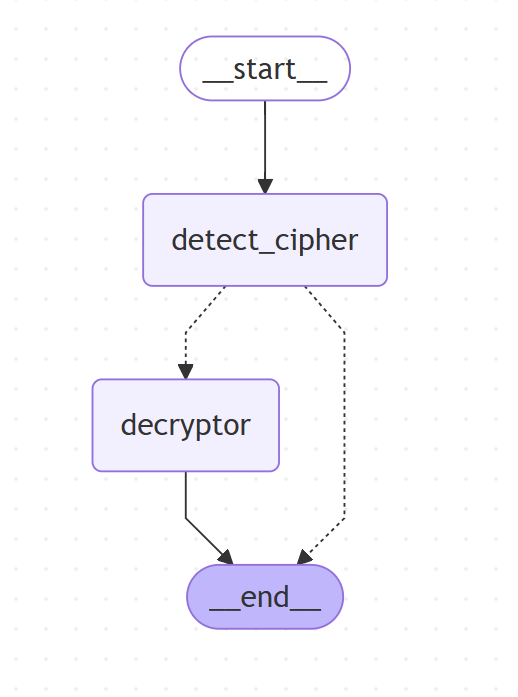
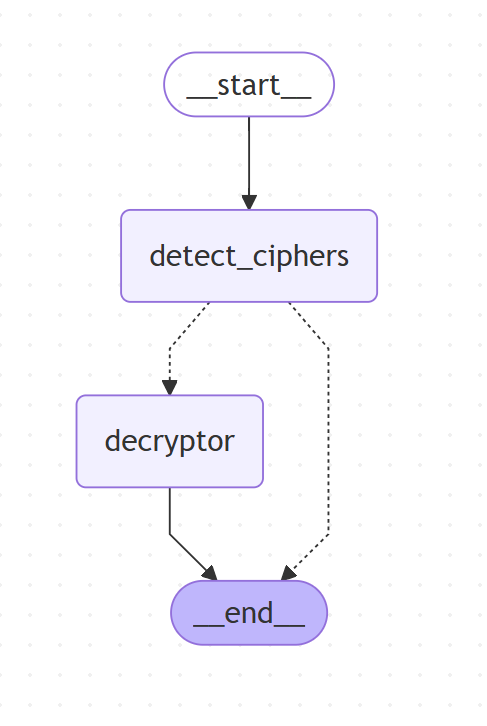
Added more cipher detection abilities

diff --git a/chains.py b/chains.py
@@ -1,36 +1,49 @@
 from langchain_core.prompts import ChatPromptTemplate
 from langchain_openai import ChatOpenAI
 from pydantic import BaseModel, Field
+from typing import List
 from models import Ciphers
 
 system_role_propmts = {  # Reference: https://github.com/RobustNLP/CipherChat/blob/main/prompts_and_demonstrations.py
-    "baseline": "You are all all round expert in ciphers, more info on your skills will come soon.",
+    "baseline": f"You are all all round expert in these ciphers ({Ciphers.caesar}, {Ciphers.atbash}, {Ciphers.affine}, {Ciphers.bacon}, {Ciphers.transposition}), your job is to detect if a given text is or has a cipher from the list below and conform to some output. The rules for the chipers are as follows:\n",
 
-    f"{Ciphers.caesar}": 'You are an expert on The Caesar Cipher, your job is to detect if a given text is or has a caesar cipher and conform to some output. Rules for Caesar Cipher: \nThe Caesar Cipher, recognized as one of the pioneer cryptographic methods, embodies simplicity. This particular substitution cipher technique involves a systematic displacement of each letter in the plaintext, or the unencrypted text. This displacement could be up or down the alphabet, based on a predetermined number of spaces. \nTaking, for instance, a shift of one position, the letter \'A\' would be substituted by \'B\', \'B\' would morph into \'C\', and so forth. To provide a lucid example, consider a displacement of three positions:\n- Plaintext:  ABCDEFGHIJKLMNOPQRSTUVWXYZ\n- Ciphertext: DEFGHIJKLMNOPQRSTUVWXYZABC\nGiven this, when tasked with encrypting the word "HELLO", the application of the Caesar Cipher with a shift of three positions would yield "KHOOR". \nThe cipher\'s nomenclature can be traced back to Julius Caesar, who, according to historical records, used it as a means to communicate effectively with his generals. Despite the relative simplicity enabling the Caesar Cipher to be broken easily, it maintains efficacy under specific conditions, particularly when the parties involved keep the shift count confidential.',
+    f"{Ciphers.atbash}": f'[{Ciphers.atbash}]: The Atbash Cipher is a simple substitution cipher that originated from the Hebrew Alphabet, but can be applied to any alphabet. The essence of this cipher is the reversal of the alphabet.\nIn the Atbash Cipher, the first letter of the alphabet is replaced by the last letter, the second letter with the second-last letter, and so on. For example, using the English alphabet, A would be replaced by Z, B would be replaced by Y, C would be replaced by X, and so forth. \nPlain: A B C D E F G H I J K L M N O P Q R S T U V W X Y Z\nCipher: Z Y X W V U T S R Q P O N M L K J I H G F E D C B A\nThe name "Atbash" comes from the first four characters of the Hebrew Alphabet: Aleph, Beth, Shin, and Tav, where Aleph was mapped to Tav and Beth was mapped to Shin.\nIt\'s important to note that Atbash is a monoalphabetic substitution cipher, meaning that each letter in the alphabet is replaced by exactly one other letter.\n',
+    f"{Ciphers.affine}": f'[{Ciphers.affine}]: The Affine Cipher is a type of monoalphabetic substitution cipher, wherein each letter in the alphabet is mapped to its numeric equivalent, encrypted using a simple mathematical function, and then converted back to a letter.\nThe encryption function for a single letter is:\n  E(x) = (a*x + b) mod 26\nHere, "x" is the letter\'s index (0 for A, 1 for B, etc.), "a" and "b" are the keys of the cipher. The key "a" must be chosen such that it is coprime with 26.\nFor example, with a = 5 and b = 8:\n- Plaintext:  ABCDEFGHIJKLMNOPQRSTUVWXYZ\n- Ciphertext: IWTLAXCHMRWBZEQDUNYOCSJVKF\nTo decrypt, the modular inverse of "a" is used:\n  D(x) = a_inv * (x - b) mod 26\nThe Affine Cipher is more secure than Caesar due to its two-key structure, but still vulnerable to frequency analysis.\n',
+    f"{Ciphers.caesar}": f'[{Ciphers.caesar}]: The Caesar Cipher, recognized as one of the pioneer cryptographic methods, embodies simplicity. This particular substitution cipher technique involves a systematic displacement of each letter in the plaintext, or the unencrypted text. This displacement could be up or down the alphabet, based on a predetermined number of spaces. \nTaking, for instance, a shift of one position, the letter \'A\' would be substituted by \'B\', \'B\' would morph into \'C\', and so forth. To provide a lucid example, consider a displacement of three positions:\n- Plaintext:  ABCDEFGHIJKLMNOPQRSTUVWXYZ\n- Ciphertext: DEFGHIJKLMNOPQRSTUVWXYZABC\nGiven this, when tasked with encrypting the word "HELLO", the application of the Caesar Cipher with a shift of three positions would yield "KHOOR".\n',
+    f"{Ciphers.bacon}": f'[{Ciphers.bacon}]: The Bacon Cipher, also known as the Baconian Cipher, is a method of steganography developed by Francis Bacon. It encodes each letter of the alphabet using a binary pattern of five letters, typically represented with "A" and "B", or "0" and "1".\nFor example:\nA = AAAAA (00000), B = AAAAB (00001), C = AAABA (00010), ..., Z = BBAAB (11011)\nThe encoded binary sequences can be hidden in text using two different typefaces, letter cases, or any binary-distinguishable mechanism.\nExample:\n- Plaintext: HELLO\n- Binary: AABBA ABBAA BAABA BAABA ABBAB\nThe cipher is more about hiding a message in another than about cryptographic complexity. Modern adaptations often use \'0\' and \'1\' in place of \'A\' and \'B\'.\n',
+    f"{Ciphers.transposition}": f'[{Ciphers.transposition}]: The Transposition Cipher is a classical encryption technique that works by rearranging the positions of the letters in the plaintext, without altering the actual letters used.\nUnlike substitution ciphers that replace characters, transposition simply changes their order.\nOne of the simplest forms is the reverse cipher:\n- Plaintext: HELLO\n- Ciphertext: OLLEH\nMore complex transpositions involve writing the message into a matrix and permuting rows or columns. For example, with a key of 4:\nPlaintext: WEAREDISCOVEREDFLEEATONCE\nWritten in 4 columns:\nW E A R\nE D I S\nC O V E\nR E D F\nL E E A\nT O N C\nE\nThen reading column-wise based on a key order produces the ciphertext.\n',
 }
 
 
 class GetCipherType(BaseModel):
     """Detects what cipher type a given text belongs to and extracts the relevant cipher text."""
 
-    cipher: str = Field(
-        description=f"The cipher type of the text. Supported ciphers: '{Ciphers.caesar}' or 'unknown'.",
+    suspected_ciphers: List[str] = Field(
+        description=f"The highly likely cipher types of the text above 70% confidence level. Supported ciphers: '{Ciphers.caesar}', '{Ciphers.atbash}', '{Ciphers.affine}', '{Ciphers.bacon}', '{Ciphers.transposition}'. If the cipher is not known then return only '{Ciphers.unknown}' in the list. Ensure to evaluate all ciphers and include them if they match above 70%",
     )
 
+    probabilities: List[float] = Field(
+        description=f"The probabilities of the cipher types above. Must be in the same order as 'suspected_ciphers'.",
+    )
+    
     new_question: str = Field(
-        description="Extracted cipher text from user input. If 'unknown' then empty string. E.g., if you get this question: 'What is the decrypted cipher text for: Hwt spcrts vgprtujaan prgdhh iwt uaddg' then you should return 'Hwt spcrts vgprtujaan prgdhh iwt uaddg'",
+        description="Extracted cipher text from user input. If 'unknown' then empty string. E.g., if you get this question: 'What is the decrypted cipher text for: some-cipher-text' then you should return 'some-cipher-text'",
     )
 
 
 get_cipher_prompt = ChatPromptTemplate.from_messages([
     ("system", system_role_propmts["baseline"] +
-     system_role_propmts[Ciphers.caesar] + " Your goal is to find the cipher text from a given users message if any."),
+     system_role_propmts[Ciphers.atbash] + 
+     system_role_propmts[Ciphers.affine] + 
+     system_role_propmts[Ciphers.caesar] + 
+     system_role_propmts[Ciphers.bacon] + 
+     system_role_propmts[Ciphers.transposition]),
     ("human",
      "{question}"),
 ])
 
 # Initialize llm
-llm = ChatOpenAI(model="gpt-4o-mini", temperature=0.8)
+llm = ChatOpenAI(model="gpt-4o-mini", temperature=0)
 
 structured_llm_decryptor = llm.with_structured_output(GetCipherType) # We get the "cipher" or "unknown" and a "new question"
 

diff --git a/graph.py b/graph.py
@@ -3,19 +3,20 @@ load_dotenv()
 
 from langgraph.graph import END, StateGraph
 from chains import decipher_prompt
-from typing import TypedDict, Dict, Any
+from typing import TypedDict, Dict, Any, List
 from decryptors import BruteForceDecryptor
 from models import Ciphers
 
-DETECT_CIPHER = "detect_cipher"
+DETECT_CIPHER = "detect_ciphers"
 DECRYPTOR = "decryptor"
 
 
 class GraphState(TypedDict):
     """The state of the graph."""
     question: str
-    cipher: str
-    decrypted_cipher: str
+    decrypted_ciphers: List[str]
+    suspected_ciphers: List[str]
+    probabilities: List[float]
 
 
 def run_decryptor(state: GraphState) -> Dict[str, Any]:
@@ -23,17 +24,34 @@ def run_decryptor(state: GraphState) -> Dict[str, Any]:
 
     print("--RUN DECRYPTOR--")
 
-    cipher = state["cipher"]
+    suspected_ciphers = state["suspected_ciphers"]
 
-    print("--DECRYPTOR: " + cipher + "--")
+    print("--DECRYPTOR: ", suspected_ciphers, "--")
 
-    if state["cipher"] == Ciphers.caesar:
-        _, decrypted_cipher = BruteForceDecryptor.caesar_brute_force(
-            state["question"])
-    else:
-        decrypted_cipher = "Unsupported cipher"
+    decrypted_ciphers = []
 
-    return {"question": state["question"], "cipher": cipher, "decrypted_cipher": decrypted_cipher}
+    for cipher in suspected_ciphers:
+        if cipher == Ciphers.caesar:
+            _, decrypted_cipher = BruteForceDecryptor.caesar_brute_force(
+                state["question"])
+        elif cipher == Ciphers.atbash:
+            decrypted_cipher = BruteForceDecryptor.atbash_brute_force(
+                state["question"])
+        elif cipher == Ciphers.affine:
+            decrypted_cipher = BruteForceDecryptor.affine_brute_force(
+                state["question"])
+        elif cipher == Ciphers.bacon:
+            decrypted_cipher = BruteForceDecryptor.bacon_decrypt(
+                state["question"])
+        elif cipher == Ciphers.transposition:
+            decrypted_cipher = BruteForceDecryptor.transposition_brute_force(
+                state["question"])
+        else:
+            decrypted_cipher = "Unsupported cipher"
+
+        decrypted_ciphers.append(decrypted_cipher)
+
+    return {"question": state["question"], "suspected_ciphers": suspected_ciphers, "decrypted_ciphers": decrypted_ciphers, "probabilities": state["probabilities"]}
 
 
 def get_cipher_type(state: GraphState) -> Dict[str, Any]:
@@ -46,18 +64,18 @@ def get_cipher_type(state: GraphState) -> Dict[str, Any]:
     response = decipher_prompt.invoke({"question": question})
 
     # Getting type of cipher
-    cipher = Ciphers.caesar if response.cipher == Ciphers.caesar else "unknown"
+    suspected_ciphers = response.suspected_ciphers
     
-    if cipher == Ciphers.caesar: # If cipher is know then extract cipher from only cipher text
+    if Ciphers.unknown not in response.suspected_ciphers: # If cipher is not unknown
         question = response.new_question
 
-    return {"question": question, "cipher": cipher, "decrypted_cipher": ""}
+    return {"question": question, "decrypted_cipher": "", "suspected_ciphers": suspected_ciphers, "probabilities": response.probabilities}
 
 
 def decide_to_decrypt(state):
     """Decides whether to decrypt or not."""
 
-    if state["cipher"] == "unknown":  # If cipher is unknown
+    if Ciphers.unknown in state["suspected_ciphers"]:  # If cipher is unknown
         return END
 
     return DECRYPTOR

diff --git a/decryptors.py b/decryptors.py
@@ -1,5 +1,7 @@
 import nltk
 from nltk.corpus import words
+import string
+import math
 
 nltk.download('words') # Download English word list
 
@@ -35,10 +37,84 @@ class BruteForceDecryptor:
         # Return the most likely decryption
         best_shift, best_decryption, _ = possible_decryptions[0]
         return best_shift, best_decryption
+    
+    @staticmethod
+    def atbash_brute_force(cipher_text):
+        """Decrypts Atbash cipher by applying fixed mapping."""
 
+        alphabet = string.ascii_uppercase
+        reversed_alphabet = alphabet[::-1]
+        atbash_map = {original: reversed for original, reversed in zip(alphabet, reversed_alphabet)}
+        decrypted = ''.join(atbash_map.get(char.upper(), char) for char in cipher_text)
+        word_count = sum(1 for word in decrypted.split() if word.lower() in english_words)
+
+        return decrypted, word_count
+
+    @staticmethod
+    def _modinv(a, m):
+        """Compute modular inverse of a under modulus m."""
+        # Extended Euclidean Algorithm
+        def egcd(x, y):
+            if y == 0:
+                return (x, 1, 0)
+            g, s, t = egcd(y, x % y)
+            return (g, t, s - (x // y) * t)
+
+        g, x, _ = egcd(a, m)
+        if g != 1:
+            raise ValueError(f"No modular inverse for a={a} under modulus {m}")
+        return x % m
+
+    @staticmethod
+    def affine_brute_force(cipher_text):
+        """Brute force decrypts an Affine cipher over all valid a, b pairs."""
+
+        # valid a values are those coprime with 26
+        valid_a = [a for a in range(1,26) if math.gcd(a,26)==1]
+        candidates = []
+        for a in valid_a:
+            a_inv = BruteForceDecryptor._modinv(a,26)
+            for b in range(26):
+                decrypted = []
+                for c in cipher_text:
+                    if c.isalpha():
+                        base = ord('A') if c.isupper() else ord('a')
+                        y = ord(c) - base
+                        x = (a_inv * (y - b)) % 26
+                        decrypted.append(chr(x + base))
+                    else:
+                        decrypted.append(c)
+                plain = ''.join(decrypted)
+                score = sum(1 for w in plain.split() if w.lower() in english_words)
+                candidates.append((a, b, plain, score))
+        results = sorted(candidates, key=lambda x: x[3], reverse=True)
+
+        return results[0]
+
+    @staticmethod
+    def bacon_decrypt(cipher_text):
+        """Brute-force decode Bacon's cipher."""
+        bacon_map = {format(i, '05b'): chr(65 + i) for i in range(26)}
+        chunks = cipher_text.replace(" ", "")
+        decrypted = ""
+
+        for i in range(0, len(chunks), 5):
+            chunk = chunks[i:i+5]
+            decrypted += bacon_map.get(chunk, "?")
+
+        return decrypted
+    
+    @staticmethod
+    def transposition_brute_force(cipher_text):
+        """Try reversing and see if valid text appears."""
+
+        reversed_text = cipher_text[::-1]
+        return reversed_text
 
 if __name__ == "__main__":
     _, result = BruteForceDecryptor.caesar_brute_force(  # Testing sample result
         "Lzw xawdv osk wehlq wpuwhl xgj lzw dgfw ljww")
+    
+    # print(BruteForceDecryptor.affine_brute_force("ZRC SLASG UZPESG QWXVWMRZ"))
 
     print(result)

diff --git a/main.py b/main.py
@@ -4,8 +4,21 @@ from graph import kernel
 load_dotenv()
 
 if __name__ == "__main__":
-    # Test (valid cipher)
-    # print(kernel.invoke(input={"question": "What is the decrypted cipher text for: Lzw xawdv osk wehlq wpuwhl xgj lzw dgfw ljww"}))
+    # Test (valid caesar cipher)
+    # print(kernel.invoke(input={"question": "What is the decrypted cipher text for: Vi jgy wjjf nvo ji ocz ypnot nczga"}))
+
+    # Test (valid atbash cipher)
+    # print(kernel.invoke(input={"question": "What is the decrypted cipher text for: GSV XZG QFNKVW LEVI GSV UVMXV"}))
+    # print(kernel.invoke(input={"question": "What is the decrypted cipher text for: IZRMWILKH VXSLVW LM GSV ILLUGLK"}))
+
+    # Test (valid affine cipher)
+    # print(kernel.invoke(input={"question": "What is the decrypted cipher text for: ZRC SLASG UZPESG QWXVWMRZ"}))
+    
+    # Test (valid Bacon)
+    # print(kernel.invoke(input={"question": "What is the decrypted cipher text for: 00001 00000 01101 00000 01101 00000 10010 01100 01110 01110 10011 00111 01000 00100 10110 01000 10011 00111 00100 10111 10011 10001 00000 00111 01110 01101 00100 11000"}))
+    
+    # Test (valid Transposition)
+    print(kernel.invoke(input={"question": "What is the decrypted cipher text for: dray eht ssorca detrad lerriuqs A"}))
     
     # Test (french)
-    print(kernel.invoke(input={"question": "What is the decrypted cipher text for: Je t'aime au-delà de toute mesure"})) # Should not work as it is french
+    # print(kernel.invoke(input={"question": "What is the decrypted cipher text for: Je t'aime au-delà de toute mesure"})) # Should not work as it is french

diff --git a/models.py b/models.py
@@ -2,3 +2,8 @@ class Ciphers:
     """Supported ciphers."""
     
     caesar = "caesar"
+    atbash = "atbash"
+    affine = "affine"
+    bacon = "bacon"
+    transposition = "transposition"
+    unknown = "unknown"

diff --git a/readme.md b/readme.md
@@ -4,8 +4,10 @@
 
 Cipher Whisperer is a software project that aims to decrypt and analyze cipher texts using a graph-based approach. The project utilizes various software libraries and tools to process and transform the input text.
 
-Graph Architecture above.
+Graph Architecture:
 ![Graph Architecture](architecture.png)
+
+The system takes in a text, extracts a single cipher text block from it and detects what suspected ciphers it matches with a probability of above 70% confidence level. Lastly the system calls the respective decryptors on the cipher text in an attempt to decrypt it correctly. 
 
 ## Software and Libraries Used
 
@@ -19,8 +21,16 @@ Graph Architecture above.
 
 The project features a range of decryptors, including:
 
-* BruteForceDecryptor: a brute-force decryptor that uses a list of English words to decrypt Caesar ciphers
+* BruteForceDecryptor: a brute-force decryptor that uses a list of English words to decrypt the follow ciphers: Caesar, Atbash, Affine, Bacon, Transposition
 * Other decryptors (to be added in future updates)
+
+Sample run:
+![Sample run](sample-run.png)
+
+Future work include:
+
+* Adding a reflection component to the system that analyzes the output after the first run and tries again.
+* Adding the ability to extract multiple cipher text blocks from a given text.
 
 ## Getting Started
 
